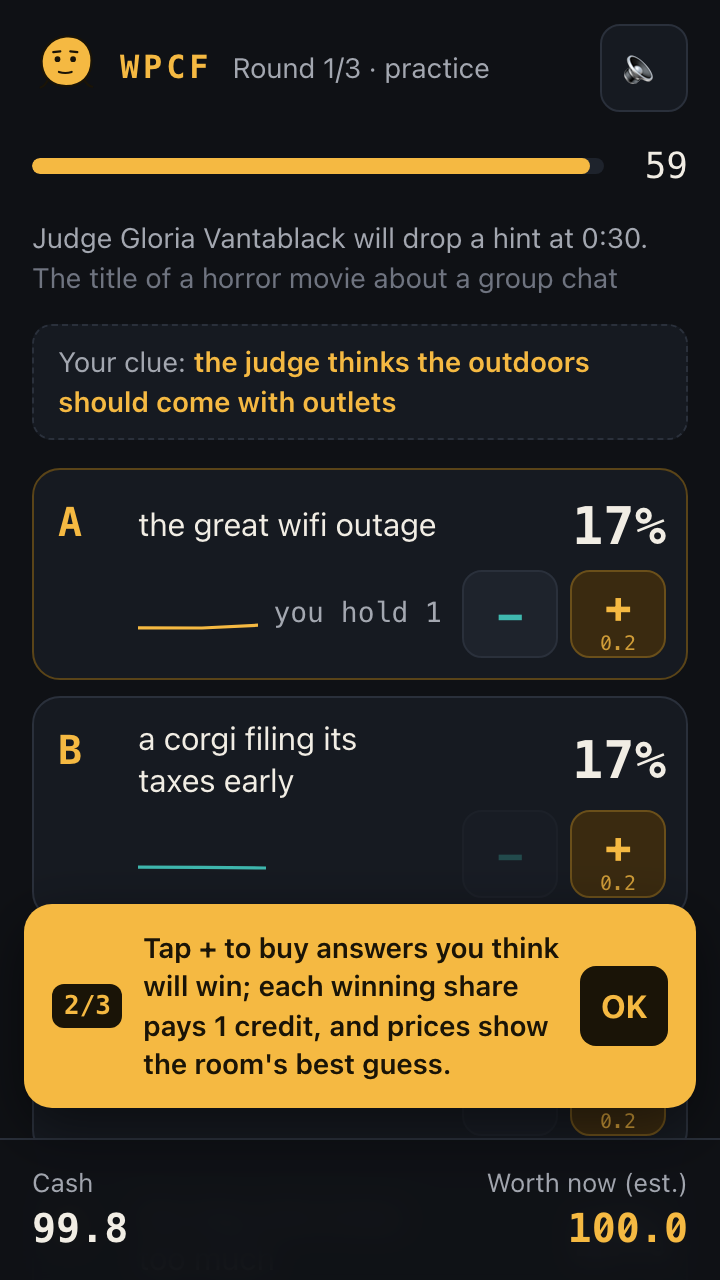
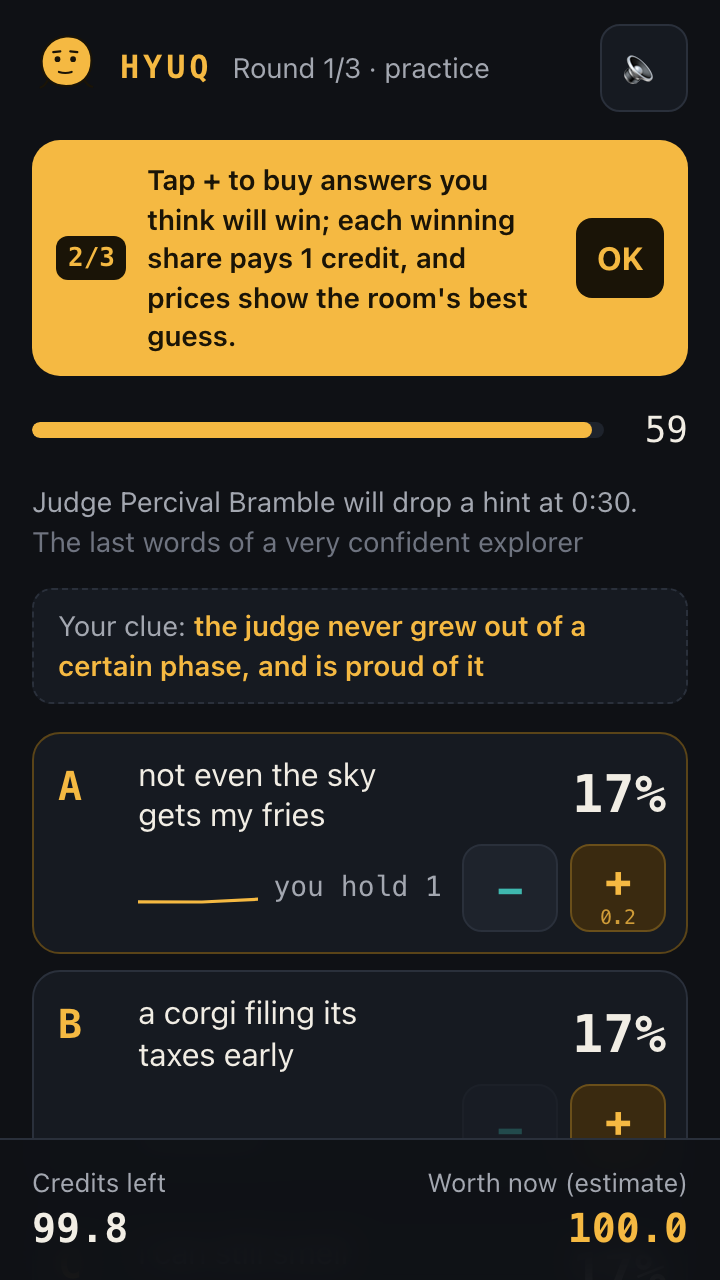
Backlog 1: compact market screen, shorter tutorial tips, prod screenshots

diff --git a/client/src/styles.css b/client/src/styles.css
@@ -146,7 +146,11 @@ label.lbl { font-size: 14px; color: var(--dim); display: block; margin-bottom: 6
 /* ---------- judge ---------- */
 .judge { display: flex; gap: 12px; align-items: flex-start; }
 .judge svg { flex: none; }
-.judge.compact .bubble { font-size: 15px; padding: 8px 12px; }
+.judge.compact .bubble { font-size: 14px; padding: 7px 11px; line-height: 1.3; }
+.judge.compact .bubble::before { top: 10px; }
+.cluechip.compact { font-size: 13px; padding: 6px 10px; }
+.mkt-prompt { font-size: 15px; font-weight: 600; margin: 0; color: var(--text); }
+.tutorial .grow { font-size: 14px !important; line-height: 1.3; }
 .bubble {
   position: relative; background: var(--text); color: #16130d; border-radius: 14px; padding: 10px 14px;
   font-size: 16px; line-height: 1.35;
@@ -177,23 +181,23 @@ label.lbl { font-size: 14px; color: var(--dim); display: block; margin-bottom: 6
 .dot.on { background: var(--teal); border-color: var(--teal); }
 
 /* ---------- market ---------- */
-.tickers { list-style: none; margin: 0; padding: 0; display: flex; flex-direction: column; gap: 8px; }
+.tickers { list-style: none; margin: 0; padding: 0; display: flex; flex-direction: column; gap: 6px; }
 .tk {
   display: grid; grid-template-columns: 30px 1fr auto; grid-template-areas: "l t p" "l s b";
-  gap: 4px 10px; padding: 10px 10px 10px 12px; border-radius: 14px; background: var(--bg2); border: 1px solid var(--line);
+  gap: 2px 8px; padding: 8px 8px 8px 10px; border-radius: 12px; background: var(--bg2); border: 1px solid var(--line);
   align-items: center;
 }
 .tk.held { border-color: #5a4418; }
 .tk .l { grid-area: l; font-family: var(--mono); font-weight: 800; font-size: 20px; color: var(--amber); align-self: start; padding-top: 2px; }
-.tk .t { grid-area: t; font-size: 16px; line-height: 1.3; word-break: break-word; }
-.tk .p { grid-area: p; font-family: var(--mono); font-weight: 800; font-size: 26px; text-align: right; font-variant-numeric: tabular-nums; min-width: 3.2ch; }
+.tk .t { grid-area: t; font-size: 15px; line-height: 1.3; word-break: break-word; }
+.tk .p { grid-area: p; font-family: var(--mono); font-weight: 800; font-size: 22px; text-align: right; font-variant-numeric: tabular-nums; min-width: 3.2ch; }
 .tk .p.up { color: var(--amber); }
 .tk .p.down { color: var(--teal); }
 .tk .s { grid-area: s; display: flex; align-items: center; gap: 8px; min-width: 0; }
 .tk .b { grid-area: b; display: flex; gap: 6px; }
 .tk .held-n { font-family: var(--mono); font-size: 14px; color: var(--dim); white-space: nowrap; }
 .tradebtn {
-  width: 48px; height: 44px; border-radius: 10px; border: 1px solid var(--line); background: var(--bg3);
+  width: 46px; height: 44px; border-radius: 10px; border: 1px solid var(--line); background: var(--bg3);
   font-size: 22px; font-weight: 700; cursor: pointer; display: grid; place-items: center; line-height: 1;
   touch-action: manipulation; user-select: none; -webkit-user-select: none; position: relative;
 }

diff --git a/client/src/Room.tsx b/client/src/Room.tsx
@@ -330,11 +330,11 @@ function Lobby({ conn, isHost }: { conn: RoomConn; isHost: boolean }) {
 
 const KIND_LABEL = { identity: "who the judge is", loves: "what the judge loves", hates: "what the judge hates", quirk: "the judge's quirk" } as const;
 
-export function ClueChip({ conn }: { conn: RoomConn }) {
+export function ClueChip({ conn, compact }: { conn: RoomConn; compact?: boolean }) {
   const clue = conn.priv?.clue;
   if (!clue) return null;
   return (
-    <div className="cluechip">
+    <div className={"cluechip" + (compact ? " compact" : "")}>
       Your clue: <b>{clue.text.replace(/^The judge /, "the judge ")}</b>
     </div>
   );
@@ -457,9 +457,9 @@ function Write({ conn, audience, isHost }: { conn: RoomConn; audience: boolean; 
 // ---------- tutorial ----------
 
 const TUTORIAL: Record<string, [number, string]> = {
-  WRITE: [1, "Write the answer you think this judge would pick; your clue is a hint."],
-  MARKET: [2, "Tap + to buy answers you think will win; each winning share pays 1 credit, and prices show the room's best guess."],
-  REVEAL: [3, "The judge was locked in before anyone traded, and the green check proves it."],
+  WRITE: [1, "Write what this judge would pick; your clue is the hint."],
+  MARKET: [2, "Tap + on answers you think will win; each winning share pays 1 credit."],
+  REVEAL: [3, "The judge was locked in before trading; the green check proves it."],
 };
 
 function Tutorial({ state }: { state: PublicState }) {

diff --git a/client/src/Market.tsx b/client/src/Market.tsx
@@ -63,14 +63,13 @@ export function Market({ conn, audience, soundOn }: { conn: RoomConn; audience: 
   return (
     <>
       <Countdown endsAt={s.phaseEndsAt} offset={conn.offset} total={MARKET_MS} />
+      <p className="mkt-prompt">{s.prompt}</p>
       {s.tell ? (
-        <JudgeSays mood={s.tell.mood as Mood} text={s.tell.text} name={s.judgeName} tell compact />
+        <JudgeSays mood={s.tell.mood as Mood} text={s.tell.text} tell compact />
       ) : (
-        <p className="small dim" style={{ margin: 0 }}>
-          {s.judgeName} will drop a hint at 0:30. <span className="faint">{s.prompt}</span>
-        </p>
+        <p className="small dim" style={{ margin: 0 }}>{s.judgeName} drops a hint at 0:30.</p>
       )}
-      {!audience && <ClueChip conn={conn} />}
+      {!audience && <ClueChip conn={conn} compact />}
       {audience && (
         <div className="banner">You're in the crowd market with your own credits. Vote for a crowd pick: its author gets +10.</div>
       )}
